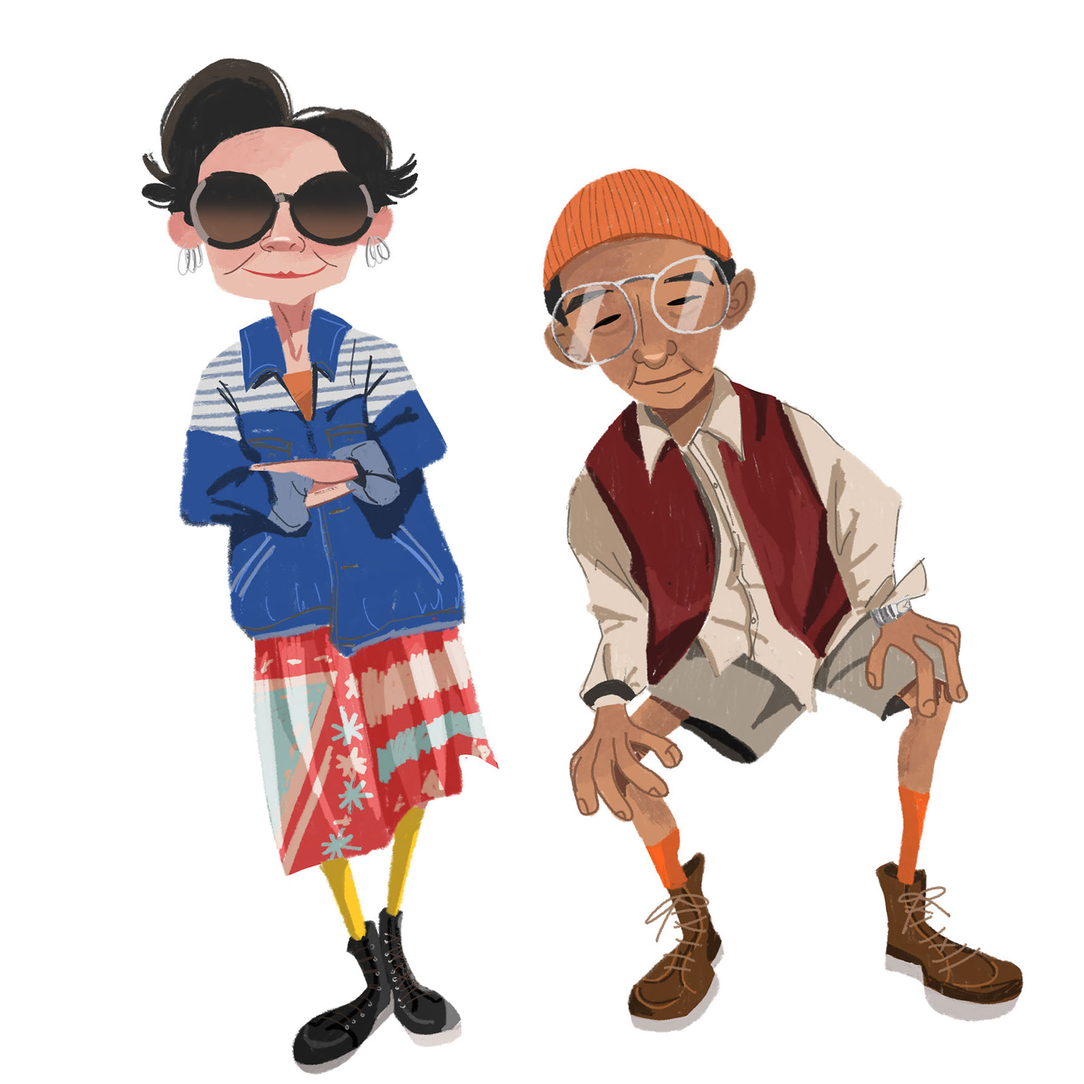
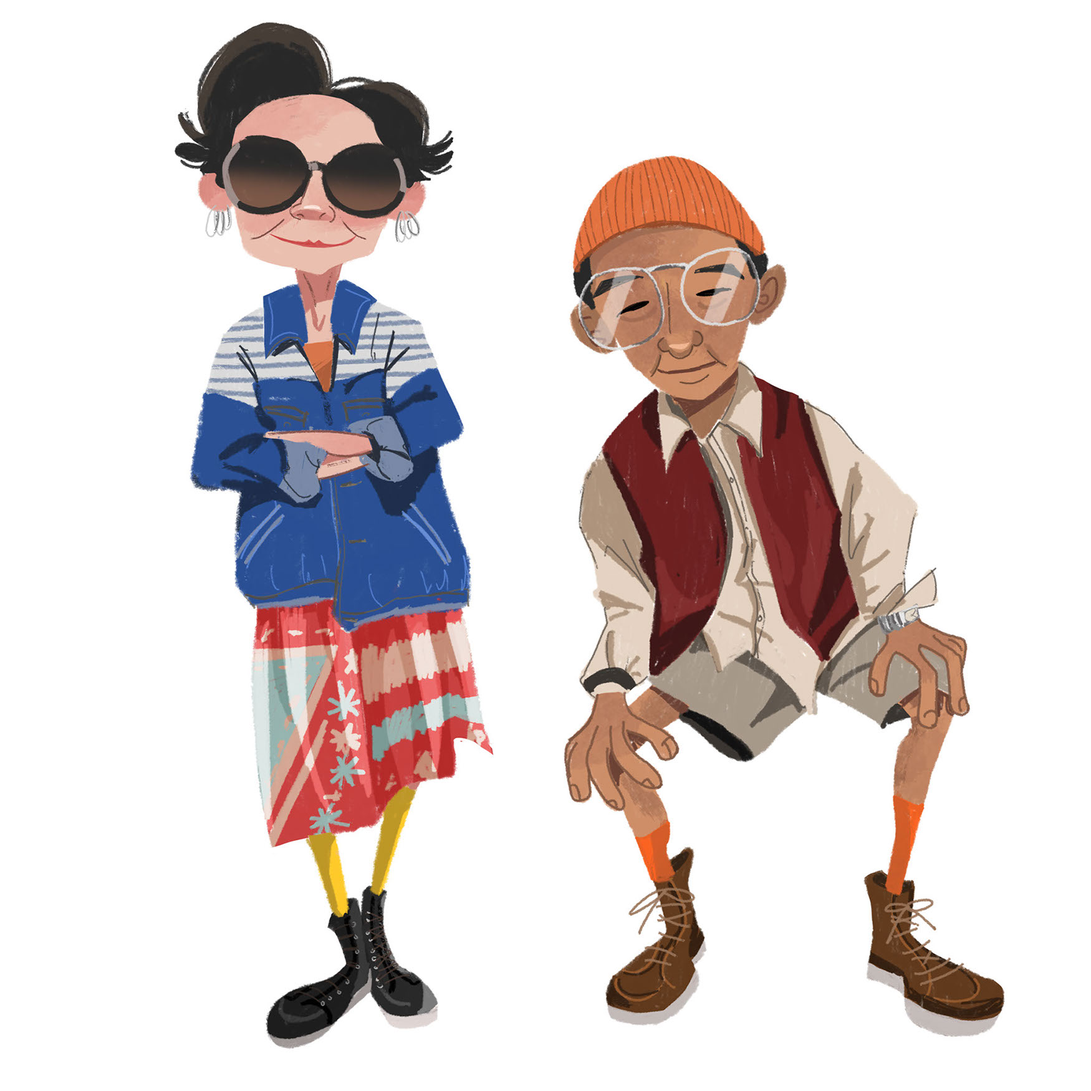
ch

Changed region(s): [[0.1241, 0.0, 0.4655, 0.9931], [0.4966, 0.1241, 0.9621, 0.9621]]

diff --git a/css/index.css b/css/index.css
@@ -1,1 +1,1 @@
-.version.index{color:#00000F;background-color:#1A99DC;}#page{z-index:1;width:736px;min-height:376px;background-image:none;border-width:0px;border-color:#000000;background-color:transparent;margin-left:auto;margin-right:auto;padding:62px 132px;}#u106{z-index:2;width:501px;background-color:transparent;margin-left:118px;position:relative;}#menuu10152{z-index:18;width:668px;height:47px;border-width:0px;border-color:transparent;background-color:transparent;margin-left:34px;position:relative;}#u10167{width:165px;min-height:47px;background-color:transparent;position:relative;margin-right:-10000px;}#u10170{width:165px;background-color:#FFFFFF;padding-bottom:25px;position:relative;}#u10170.MuseMenuActive{border-width:0px;border-color:transparent;background-color:#FFFFFF;width:165px;min-height:0px;margin:0px;}#u10172-4{position:relative;margin-right:-10000px;top:12px;left:0px;}#u10172-4_clip{overflow:hidden;width:165px;height:22px;display:block;vertical-align:top;}#u10174{width:165px;min-height:47px;background-color:transparent;position:relative;margin-right:-10000px;left:167px;}#u10177{width:165px;background-color:#FFFFFF;padding-bottom:25px;position:relative;}#u10177:hover{background-color:#999999;width:165px;min-height:0px;margin:0px;}#u10177:active{background-color:#6B6B6B;width:165px;min-height:0px;margin:0px;}#u10180{height:22px;width:165px;vertical-align:top;position:relative;margin-right:-10000px;top:12px;background:transparent url("../images/u10180.png?crc=385428386") no-repeat 0px 0px;}.hidpi #u10180{background-image:url("../images/u10180_2x.png?crc=4070849319");background-size:165px 22px;}#u10177.MuseMenuActive #u10180{background:transparent url("../images/u10180-a.png?crc=4212819689") no-repeat 0px 0px;}.hidpi #u10177.MuseMenuActive #u10180{background-image:url("../images/u10180-a_2x.png?crc=4128372013");background-size:165px 22px;}#u10153{width:166px;min-height:47px;background-color:transparent;position:relative;margin-right:-10000px;left:334px;}#u10154{width:166px;background-color:#FFFFFF;padding-bottom:25px;position:relative;}#u10154:hover{background-color:#999999;width:166px;min-height:0px;margin:0px;}#u10155{height:22px;width:166px;vertical-align:top;position:relative;margin-right:-10000px;top:12px;background:transparent url("../images/u10155.png?crc=23518194") no-repeat 0px 0px;}.hidpi #u10155{background-image:url("../images/u10155_2x.png?crc=447743781");background-size:166px 22px;}#u10154.MuseMenuActive #u10155{background:transparent url("../images/u10155-a.png?crc=461360314") no-repeat 0px 0px;}.hidpi #u10154.MuseMenuActive #u10155{background-image:url("../images/u10155-a_2x.png?crc=4173523660");background-size:166px 22px;}#u10160{width:166px;min-height:47px;background-color:transparent;position:relative;margin-right:-10000px;left:502px;}#u10161{width:166px;background-color:#FFFFFF;padding-bottom:25px;position:relative;}#u10161:hover{background-color:#999999;width:166px;min-height:0px;margin:0px;}#u10154:active,#u10161:active{background-color:#6B6B6B;width:166px;min-height:0px;margin:0px;}#u10163{height:22px;width:166px;vertical-align:top;position:relative;margin-right:-10000px;top:12px;background:transparent url("../images/u10163.png?crc=4150077830") no-repeat 0px 0px;}.hidpi #u10163{background-image:url("../images/u10163_2x.png?crc=4260400765");background-size:166px 22px;}#u10161.MuseMenuActive #u10163{background:transparent url("../images/u10163-a.png?crc=3836601146") no-repeat 0px 0px;}.hidpi #u10161.MuseMenuActive #u10163{background-image:url("../images/u10163-a_2x.png?crc=3989983210");background-size:166px 22px;}.MenuItem{cursor:pointer;}#u523{z-index:4;width:736px;-webkit-transition-duration:0s;-webkit-transition-delay:0s;transition-duration:0s;transition-delay:0s;background-image:url("../images/blank.gif?crc=4208392903");background-color:transparent;margin-left:1px;margin-top:71px;position:relative;}#u523:hover{-webkit-transition-duration:1s;-webkit-transition-delay:0s;-webkit-transition-timing-function:ease;transition-duration:1s;transition-delay:0s;transition-timing-function:ease;width:736px;min-height:0px;margin:71px 0px 0px 1px;}#u523:active{-webkit-transition-duration:1s;-webkit-transition-delay:0s;-webkit-transition-timing-function:ease;transition-duration:1s;transition-delay:0s;transition-timing-function:ease;width:736px;min-height:0px;margin:71px 0px 0px 1px;}#u530-4{z-index:6;margin-left:1px;margin-top:11px;position:relative;}#u1045{z-index:10;width:736px;background-color:transparent;margin-top:103px;position:relative;}#u10096-4{z-index:12;margin-top:12px;position:relative;}#u10099{z-index:16;width:736px;background-color:transparent;margin-top:89px;position:relative;}#u10244-4{z-index:40;margin-top:12px;position:relative;}#u530-4_img,#u10096-4_img,#u10244-4_img{display:block;vertical-align:top;}.css_verticalspacer .verticalspacer{height:calc(100vh - 2066px);}#muse_css_mq,.html{background-color:#FFFFFF;}body{position:relative;min-width:1000px;}
+.version.index{color:#0000FC;background-color:#28ED8B;}#page{z-index:1;width:1000px;min-height:500px;background-image:none;border-width:0px;border-color:#000000;background-color:transparent;margin-left:auto;margin-right:auto;}#u11457{z-index:44;width:658px;background-color:transparent;margin-bottom:-27px;position:relative;margin-right:-10000px;margin-top:1328px;left:-1207px;}#pu106{z-index:2;width:0.01px;margin-right:-10000px;margin-top:62px;margin-left:132px;}#u106{z-index:2;width:501px;background-color:transparent;margin-left:118px;position:relative;}#menuu10152{z-index:18;width:668px;height:47px;border-width:0px;border-color:transparent;background-color:transparent;margin-left:34px;position:relative;}#u10167{width:165px;min-height:47px;background-color:transparent;position:relative;margin-right:-10000px;}#u10170{width:165px;background-color:#FFFFFF;padding-bottom:25px;position:relative;}#u10170.MuseMenuActive{border-width:0px;border-color:transparent;background-color:#FFFFFF;width:165px;min-height:0px;margin:0px;}#u10172-4{position:relative;margin-right:-10000px;top:12px;left:0px;}#u10172-4_clip{overflow:hidden;width:165px;height:22px;display:block;vertical-align:top;}#u10174{width:165px;min-height:47px;background-color:transparent;position:relative;margin-right:-10000px;left:167px;}#u10177{width:165px;background-color:#FFFFFF;padding-bottom:25px;position:relative;}#u10177:hover{background-color:#999999;width:165px;min-height:0px;margin:0px;}#u10177:active{background-color:#6B6B6B;width:165px;min-height:0px;margin:0px;}#u10180{height:22px;width:165px;vertical-align:top;position:relative;margin-right:-10000px;top:12px;background:transparent url("../images/u10180.png?crc=385428386") no-repeat 0px 0px;}.hidpi #u10180{background-image:url("../images/u10180_2x.png?crc=4070849319");background-size:165px 22px;}#u10177.MuseMenuActive #u10180{background:transparent url("../images/u10180-a.png?crc=4212819689") no-repeat 0px 0px;}.hidpi #u10177.MuseMenuActive #u10180{background-image:url("../images/u10180-a_2x.png?crc=4128372013");background-size:165px 22px;}#u10153{width:166px;min-height:47px;background-color:transparent;position:relative;margin-right:-10000px;left:334px;}#u10154{width:166px;background-color:#FFFFFF;padding-bottom:25px;position:relative;}#u10154:hover{background-color:#999999;width:166px;min-height:0px;margin:0px;}#u10155{height:22px;width:166px;vertical-align:top;position:relative;margin-right:-10000px;top:12px;background:transparent url("../images/u10155.png?crc=23518194") no-repeat 0px 0px;}.hidpi #u10155{background-image:url("../images/u10155_2x.png?crc=447743781");background-size:166px 22px;}#u10154.MuseMenuActive #u10155{background:transparent url("../images/u10155-a.png?crc=461360314") no-repeat 0px 0px;}.hidpi #u10154.MuseMenuActive #u10155{background-image:url("../images/u10155-a_2x.png?crc=4173523660");background-size:166px 22px;}#u10160{width:166px;min-height:47px;background-color:transparent;position:relative;margin-right:-10000px;left:502px;}#u10161{width:166px;background-color:#FFFFFF;padding-bottom:25px;position:relative;}#u10161:hover{background-color:#999999;width:166px;min-height:0px;margin:0px;}#u10154:active,#u10161:active{background-color:#6B6B6B;width:166px;min-height:0px;margin:0px;}#u10163{height:22px;width:166px;vertical-align:top;position:relative;margin-right:-10000px;top:12px;background:transparent url("../images/u10163.png?crc=4150077830") no-repeat 0px 0px;}.hidpi #u10163{background-image:url("../images/u10163_2x.png?crc=4260400765");background-size:166px 22px;}#u10161.MuseMenuActive #u10163{background:transparent url("../images/u10163-a.png?crc=3836601146") no-repeat 0px 0px;}.hidpi #u10161.MuseMenuActive #u10163{background-image:url("../images/u10163-a_2x.png?crc=3989983210");background-size:166px 22px;}.MenuItem{cursor:pointer;}#u523{z-index:4;width:736px;-webkit-transition-duration:0s;-webkit-transition-delay:0s;transition-duration:0s;transition-delay:0s;background-image:url("../images/blank.gif?crc=4208392903");background-color:transparent;margin-left:1px;margin-top:71px;position:relative;}#u523:hover{-webkit-transition-duration:1s;-webkit-transition-delay:0s;-webkit-transition-timing-function:ease;transition-duration:1s;transition-delay:0s;transition-timing-function:ease;width:736px;min-height:0px;margin:71px 0px 0px 1px;}#u523:active{-webkit-transition-duration:1s;-webkit-transition-delay:0s;-webkit-transition-timing-function:ease;transition-duration:1s;transition-delay:0s;transition-timing-function:ease;width:736px;min-height:0px;margin:71px 0px 0px 1px;}#u530-4{z-index:6;margin-left:1px;margin-top:11px;position:relative;}#u1045{z-index:10;width:736px;background-color:transparent;margin-top:103px;position:relative;}#u10096-4{z-index:14;margin-top:12px;position:relative;}#u11478{z-index:12;width:736px;background-color:transparent;margin-top:122px;position:relative;}#u10244-4{z-index:40;margin-top:14px;position:relative;}#u530-4_img,#u10096-4_img,#u10244-4_img{display:block;vertical-align:top;}.css_verticalspacer .verticalspacer{height:calc(100vh - 2084px);}#muse_css_mq,.html{background-color:#FFFFFF;}body{position:relative;min-width:1000px;}

diff --git a/index.html b/index.html
@@ -16,7 +16,7 @@ if(typeof Muse == "undefined") window.Muse = {}; window.Muse.assets = {"required
   <title>HOME</title>
   <!-- CSS -->
   <link rel="stylesheet" type="text/css" href="css/site_global.css?crc=444006867"/>
-  <link rel="stylesheet" type="text/css" href="css/index.css?crc=253401564" id="pagesheet"/>
+  <link rel="stylesheet" type="text/css" href="css/index.css?crc=4230540683" id="pagesheet"/>
   <!-- JS includes -->
   <!--[if lt IE 9]>
   <script src="scripts/html5shiv.js?crc=4241844378" type="text/javascript"></script>
@@ -24,31 +24,36 @@ if(typeof Muse == "undefined") window.Muse = {}; window.Muse.assets = {"required
    </head>
  <body>
 
-  <div class="clearfix" id="page"><!-- column -->
-   <div class="clip_frame colelem" id="u106"><!-- image -->
-    <img class="block" id="u106_img" src="images/lily%20chen.png?crc=347766618" alt="" width="501" height="110"/>
+  <div class="clearfix" id="page"><!-- group -->
+   <div class="clip_frame grpelem" id="u11457"><!-- image -->
+    <img class="block" id="u11457_img" src="images/%e8%90%ac%e7%a7%80%e6%b4%97%e8%a1%a3%e5%ba%97659x697.jpg?crc=17278368" data-hidpi-src="images/%e8%90%ac%e7%a7%80%e6%b4%97%e8%a1%a3%e5%ba%97659x697_2x.jpg?crc=59878936" alt="" width="658" height="696"/>
    </div>
-   <nav class="MenuBar clearfix colelem" id="menuu10152"><!-- horizontal box -->
-    <div class="MenuItemContainer clearfix grpelem" id="u10167"><!-- vertical box -->
-     <a class="nonblock nontext MenuItem MenuItemWithSubMenu MuseMenuActive clearfix colelem" id="u10170" href="index.html"><!-- horizontal box --><div class="MenuItemLabel NoWrap grpelem" id="u10172-4"><!-- rasterized frame --><div id="u10172-4_clip"><img alt="HOME" width="165" height="22" src="images/u10172-4-a.png?crc=510347301" data-hidpi-src="images/u10172-4-a_2x.png?crc=405035858"/></div></div></a>
+   <div class="clearfix grpelem" id="pu106"><!-- column -->
+    <div class="clip_frame colelem" id="u106"><!-- image -->
+     <img class="block" id="u106_img" src="images/lily%20chen.png?crc=347766618" alt="" width="501" height="110"/>
     </div>
-    <div class="MenuItemContainer clearfix grpelem" id="u10174"><!-- vertical box -->
-     <a class="nonblock nontext MenuItem MenuItemWithSubMenu clearfix colelem" id="u10177" href="illustration.html"><!-- horizontal box --><img class="MenuItemLabel NoWrap grpelem" id="u10180" alt="ILLUSTRATION" src="images/blank.gif?crc=4208392903"/><!-- state-based BG images --></a>
-    </div>
-    <div class="MenuItemContainer clearfix grpelem" id="u10153"><!-- vertical box -->
-     <a class="nonblock nontext MenuItem MenuItemWithSubMenu clearfix colelem" id="u10154" href="animation.html"><!-- horizontal box --><img class="MenuItemLabel NoWrap grpelem" id="u10155" alt="ANIMATION" src="images/blank.gif?crc=4208392903"/><!-- state-based BG images --></a>
-    </div>
-    <div class="MenuItemContainer clearfix grpelem" id="u10160"><!-- vertical box -->
-     <a class="nonblock nontext MenuItem MenuItemWithSubMenu clearfix colelem" id="u10161" href="character.html"><!-- horizontal box --><img class="MenuItemLabel NoWrap grpelem" id="u10163" alt="CHARACTER" src="images/blank.gif?crc=4208392903"/><!-- state-based BG images --></a>
-    </div>
-   </nav>
-   <a class="nonblock nontext transition clip_frame colelem" id="u523" href="illustration.html"><!-- image --><img class="block" id="u523_img" src="images/liongirl736x442.jpg?crc=4205474386" data-hidpi-src="images/liongirl736x442_2x.jpg?crc=140351869" alt="" width="736" height="441"/></a>
-   <a class="nonblock nontext colelem" id="u530-4" href="illustration.html"><!-- rasterized frame --><img id="u530-4_img" alt="ILLUSTRATION" width="183" height="38" src="images/u530-4.png?crc=169550606" data-hidpi-src="images/u530-4_2x.png?crc=67288686"/></a>
-   <a class="nonblock nontext clip_frame colelem" id="u1045" href="animation.html"><!-- image --><img class="block" id="u1045_img" src="images/0089-crop-u1045.jpg?crc=3917088122" alt="" width="737" height="415"/></a>
-   <a class="nonblock nontext colelem" id="u10096-4" href="animation.html"><!-- rasterized frame --><img id="u10096-4_img" alt="ANIMATION" width="183" height="38" src="images/u10096-4.png?crc=4200656961" data-hidpi-src="images/u10096-4_2x.png?crc=137967775"/></a>
-   <a class="nonblock nontext clip_frame colelem" id="u10099" href="character.html"><!-- image --><img class="block" id="u10099_img" src="images/%e6%83%b3%e8%a6%8b%e4%bd%a0737x521.jpg?crc=3994650527" data-hidpi-src="images/%e6%83%b3%e8%a6%8b%e4%bd%a0737x521_2x.jpg?crc=4103812167" alt="" width="736" height="520"/></a>
-   <a class="nonblock nontext colelem" id="u10244-4" href="character.html"><!-- rasterized frame --><img id="u10244-4_img" alt="CHARACTER" width="183" height="38" src="images/u10244-4.png?crc=4096942598" data-hidpi-src="images/u10244-4_2x.png?crc=4266299866"/></a>
-   <div class="verticalspacer" data-offset-top="2006" data-content-above-spacer="2005" data-content-below-spacer="61"></div>
+    <nav class="MenuBar clearfix colelem" id="menuu10152"><!-- horizontal box -->
+     <div class="MenuItemContainer clearfix grpelem" id="u10167"><!-- vertical box -->
+      <a class="nonblock nontext MenuItem MenuItemWithSubMenu MuseMenuActive clearfix colelem" id="u10170" href="index.html"><!-- horizontal box --><div class="MenuItemLabel NoWrap grpelem" id="u10172-4"><!-- rasterized frame --><div id="u10172-4_clip"><img alt="HOME" width="165" height="22" src="images/u10172-4-a.png?crc=510347301" data-hidpi-src="images/u10172-4-a_2x.png?crc=405035858"/></div></div></a>
+     </div>
+     <div class="MenuItemContainer clearfix grpelem" id="u10174"><!-- vertical box -->
+      <a class="nonblock nontext MenuItem MenuItemWithSubMenu clearfix colelem" id="u10177" href="illustration.html"><!-- horizontal box --><img class="MenuItemLabel NoWrap grpelem" id="u10180" alt="ILLUSTRATION" src="images/blank.gif?crc=4208392903"/><!-- state-based BG images --></a>
+     </div>
+     <div class="MenuItemContainer clearfix grpelem" id="u10153"><!-- vertical box -->
+      <a class="nonblock nontext MenuItem MenuItemWithSubMenu clearfix colelem" id="u10154" href="animation.html"><!-- horizontal box --><img class="MenuItemLabel NoWrap grpelem" id="u10155" alt="ANIMATION" src="images/blank.gif?crc=4208392903"/><!-- state-based BG images --></a>
+     </div>
+     <div class="MenuItemContainer clearfix grpelem" id="u10160"><!-- vertical box -->
+      <a class="nonblock nontext MenuItem MenuItemWithSubMenu clearfix colelem" id="u10161" href="character.html"><!-- horizontal box --><img class="MenuItemLabel NoWrap grpelem" id="u10163" alt="CHARACTER" src="images/blank.gif?crc=4208392903"/><!-- state-based BG images --></a>
+     </div>
+    </nav>
+    <a class="nonblock nontext transition clip_frame colelem" id="u523" href="illustration.html"><!-- image --><img class="block" id="u523_img" src="images/liongirl736x442.jpg?crc=4205474386" data-hidpi-src="images/liongirl736x442_2x.jpg?crc=140351869" alt="" width="736" height="441"/></a>
+    <a class="nonblock nontext colelem" id="u530-4" href="illustration.html"><!-- rasterized frame --><img id="u530-4_img" alt="ILLUSTRATION" width="183" height="38" src="images/u530-4.png?crc=169550606" data-hidpi-src="images/u530-4_2x.png?crc=67288686"/></a>
+    <a class="nonblock nontext clip_frame colelem" id="u1045" href="animation.html"><!-- image --><img class="block" id="u1045_img" src="images/0089-crop-u1045.jpg?crc=3917088122" alt="" width="737" height="415"/></a>
+    <a class="nonblock nontext colelem" id="u10096-4" href="animation.html"><!-- rasterized frame --><img id="u10096-4_img" alt="ANIMATION" width="183" height="38" src="images/u10096-4.png?crc=4200656961" data-hidpi-src="images/u10096-4_2x.png?crc=137967775"/></a>
+    <a class="nonblock nontext clip_frame colelem" id="u11478" href="character.html"><!-- image --><img class="block" id="u11478_img" src="images/thehotchick2-crop-u11478.jpg?crc=365023093" data-hidpi-src="images/thehotchick2-crop-u11478_2x.jpg?crc=490192012" alt="" width="737" height="415"/></a>
+    <a class="nonblock nontext colelem" id="u10244-4" href="character.html"><!-- rasterized frame --><img id="u10244-4_img" alt="CHARACTER" width="183" height="38" src="images/u10244-4.png?crc=4096942598" data-hidpi-src="images/u10244-4_2x.png?crc=4266299866"/></a>
+   </div>
+   <div class="verticalspacer" data-offset-top="1935" data-content-above-spacer="2023" data-content-below-spacer="61"></div>
   </div>
   <div class="preload_images">
    <img class="preload" src="images/u10180-a.png?crc=4212819689" alt=""/>

diff --git a/css/character.css b/css/character.css
@@ -1,1 +1,1 @@
-.version.character{color:#0000EA;background-color:#600C66;}#page{z-index:1;width:875px;min-height:376px;background-image:none;border-width:0px;border-color:#000000;background-color:transparent;margin-left:auto;margin-right:auto;padding:62px 53px 62px 72px;}#u9972{z-index:2;width:376px;background-color:transparent;margin-left:244px;position:relative;}#menuu9974{z-index:4;width:550px;height:36px;border-width:0px;border-color:transparent;background-color:transparent;margin-left:153px;position:relative;}#u9989{width:136px;min-height:36px;background-color:transparent;position:relative;margin-right:-10000px;}#u9992{width:136px;background-color:#FFFFFF;padding-bottom:19px;position:relative;}#u9992:hover{background-color:#999999;width:136px;min-height:0px;margin:0px;}#u9994{height:17px;width:136px;vertical-align:top;position:relative;margin-right:-10000px;top:9px;background:transparent url("../images/u9994.png?crc=431491096") no-repeat 0px 0px;}.hidpi #u9994{background-image:url("../images/u9994_2x.png?crc=4160984124");background-size:136px 17px;}#u9992.MuseMenuActive #u9994{background:transparent url("../images/u9994-a.png?crc=40027291") no-repeat 0px 0px;}.hidpi #u9992.MuseMenuActive #u9994{background-image:url("../images/u9994-a_2x.png?crc=262191306");background-size:136px 17px;}#u9996{width:136px;min-height:36px;background-color:transparent;position:relative;margin-right:-10000px;left:138px;}#u9999{width:136px;background-color:#FFFFFF;padding-bottom:19px;position:relative;}#u9999:hover{background-color:#999999;width:136px;min-height:0px;margin:0px;}#u10002{height:17px;width:136px;vertical-align:top;position:relative;margin-right:-10000px;top:9px;background:transparent url("../images/u10002.png?crc=294012242") no-repeat 0px 0px;}.hidpi #u10002{background-image:url("../images/u10002_2x.png?crc=476662685");background-size:136px 17px;}#u9999.MuseMenuActive #u10002{background:transparent url("../images/u10002-a.png?crc=3936189095") no-repeat 0px 0px;}.hidpi #u9999.MuseMenuActive #u10002{background-image:url("../images/u10002-a_2x.png?crc=302691421");background-size:136px 17px;}#u9975{width:136px;min-height:36px;background-color:transparent;position:relative;margin-right:-10000px;left:276px;}#u9976{width:136px;background-color:#FFFFFF;padding-bottom:19px;position:relative;}#u9976:hover{background-color:#999999;width:136px;min-height:0px;margin:0px;}#u9992:active,#u9999:active,#u9976:active{background-color:#6B6B6B;width:136px;min-height:0px;margin:0px;}#u9977{height:17px;width:136px;vertical-align:top;position:relative;margin-right:-10000px;top:9px;background:transparent url("../images/u9977.png?crc=328423500") no-repeat 0px 0px;}.hidpi #u9977{background-image:url("../images/u9977_2x.png?crc=185477300");background-size:136px 17px;}#u9976.MuseMenuActive #u9977{background:transparent url("../images/u9977-a.png?crc=3793669244") no-repeat 0px 0px;}.hidpi #u9976.MuseMenuActive #u9977{background-image:url("../images/u9977-a_2x.png?crc=3982371615");background-size:136px 17px;}#u9982{width:136px;min-height:36px;background-color:transparent;position:relative;margin-right:-10000px;left:414px;}#u9983{width:136px;background-color:#FFFFFF;padding-bottom:19px;position:relative;}#u9983.MuseMenuActive{border-width:0px;border-color:transparent;background-color:#FFFFFF;width:136px;min-height:0px;margin:0px;}#u9985-4{position:relative;margin-right:-10000px;top:9px;left:0px;}#u9985-4_clip{overflow:hidden;width:136px;height:17px;display:block;vertical-align:top;}.MenuItem{cursor:pointer;}#u11318{z-index:32;width:874px;background-color:transparent;margin-left:1px;margin-top:77px;position:relative;}#u11430{z-index:34;width:870px;background-color:transparent;margin-left:1px;margin-top:27px;position:relative;}#u10066{z-index:26;width:860px;background-color:transparent;margin-left:7px;margin-top:27px;position:relative;}#u10076{z-index:28;width:861px;background-color:transparent;margin-left:6px;margin-top:27px;position:relative;}#u10086{z-index:30;width:864px;background-color:transparent;margin-top:28px;position:relative;}.css_verticalspacer .verticalspacer{height:calc(100vh - 4584px);}#muse_css_mq,.html{background-color:#FFFFFF;}body{position:relative;min-width:1000px;}
+.version.character{color:#000001;background-color:#169A7B;}#page{z-index:1;width:876px;min-height:376px;background-image:none;border-width:0px;border-color:#000000;background-color:transparent;margin-left:auto;margin-right:auto;padding:62px 52px 62px 72px;}#u9972{z-index:2;width:376px;background-color:transparent;margin-left:244px;position:relative;}#menuu9974{z-index:4;width:550px;height:36px;border-width:0px;border-color:transparent;background-color:transparent;margin-left:153px;position:relative;}#u9989{width:136px;min-height:36px;background-color:transparent;position:relative;margin-right:-10000px;}#u9992{width:136px;background-color:#FFFFFF;padding-bottom:19px;position:relative;}#u9992:hover{background-color:#999999;width:136px;min-height:0px;margin:0px;}#u9994{height:17px;width:136px;vertical-align:top;position:relative;margin-right:-10000px;top:9px;background:transparent url("../images/u9994.png?crc=431491096") no-repeat 0px 0px;}.hidpi #u9994{background-image:url("../images/u9994_2x.png?crc=4160984124");background-size:136px 17px;}#u9992.MuseMenuActive #u9994{background:transparent url("../images/u9994-a.png?crc=40027291") no-repeat 0px 0px;}.hidpi #u9992.MuseMenuActive #u9994{background-image:url("../images/u9994-a_2x.png?crc=262191306");background-size:136px 17px;}#u9996{width:136px;min-height:36px;background-color:transparent;position:relative;margin-right:-10000px;left:138px;}#u9999{width:136px;background-color:#FFFFFF;padding-bottom:19px;position:relative;}#u9999:hover{background-color:#999999;width:136px;min-height:0px;margin:0px;}#u10002{height:17px;width:136px;vertical-align:top;position:relative;margin-right:-10000px;top:9px;background:transparent url("../images/u10002.png?crc=294012242") no-repeat 0px 0px;}.hidpi #u10002{background-image:url("../images/u10002_2x.png?crc=476662685");background-size:136px 17px;}#u9999.MuseMenuActive #u10002{background:transparent url("../images/u10002-a.png?crc=3936189095") no-repeat 0px 0px;}.hidpi #u9999.MuseMenuActive #u10002{background-image:url("../images/u10002-a_2x.png?crc=302691421");background-size:136px 17px;}#u9975{width:136px;min-height:36px;background-color:transparent;position:relative;margin-right:-10000px;left:276px;}#u9976{width:136px;background-color:#FFFFFF;padding-bottom:19px;position:relative;}#u9976:hover{background-color:#999999;width:136px;min-height:0px;margin:0px;}#u9992:active,#u9999:active,#u9976:active{background-color:#6B6B6B;width:136px;min-height:0px;margin:0px;}#u9977{height:17px;width:136px;vertical-align:top;position:relative;margin-right:-10000px;top:9px;background:transparent url("../images/u9977.png?crc=328423500") no-repeat 0px 0px;}.hidpi #u9977{background-image:url("../images/u9977_2x.png?crc=185477300");background-size:136px 17px;}#u9976.MuseMenuActive #u9977{background:transparent url("../images/u9977-a.png?crc=3793669244") no-repeat 0px 0px;}.hidpi #u9976.MuseMenuActive #u9977{background-image:url("../images/u9977-a_2x.png?crc=3982371615");background-size:136px 17px;}#u9982{width:136px;min-height:36px;background-color:transparent;position:relative;margin-right:-10000px;left:414px;}#u9983{width:136px;background-color:#FFFFFF;padding-bottom:19px;position:relative;}#u9983.MuseMenuActive{border-width:0px;border-color:transparent;background-color:#FFFFFF;width:136px;min-height:0px;margin:0px;}#u9985-4{position:relative;margin-right:-10000px;top:9px;left:0px;}#u9985-4_clip{overflow:hidden;width:136px;height:17px;display:block;vertical-align:top;}.MenuItem{cursor:pointer;}#u11318{z-index:32;width:874px;background-color:transparent;margin-left:1px;margin-top:77px;position:relative;}#u11440{z-index:34;width:875px;background-color:transparent;margin-left:1px;margin-top:27px;position:relative;}#u10066{z-index:26;width:860px;background-color:transparent;margin-left:7px;margin-top:27px;position:relative;}#u10076{z-index:28;width:861px;background-color:transparent;margin-left:6px;margin-top:27px;position:relative;}#u10086{z-index:30;width:864px;background-color:transparent;margin-top:28px;position:relative;}.css_verticalspacer .verticalspacer{height:calc(100vh - 4584px);}#muse_css_mq,.html{background-color:#FFFFFF;}body{position:relative;min-width:1000px;}

diff --git a/character.html b/character.html
@@ -16,7 +16,7 @@ if(typeof Muse == "undefined") window.Muse = {}; window.Muse.assets = {"required
   <title>CHARACTER</title>
   <!-- CSS -->
   <link rel="stylesheet" type="text/css" href="css/site_global.css?crc=444006867"/>
-  <link rel="stylesheet" type="text/css" href="css/character.css?crc=3932163174" id="pagesheet"/>
+  <link rel="stylesheet" type="text/css" href="css/character.css?crc=18258555" id="pagesheet"/>
   <!-- JS includes -->
   <!--[if lt IE 9]>
   <script src="scripts/html5shiv.js?crc=4241844378" type="text/javascript"></script>
@@ -43,8 +43,8 @@ if(typeof Muse == "undefined") window.Muse = {}; window.Muse.assets = {"required
    <div class="clip_frame colelem" id="u11318"><!-- image -->
     <img class="block" id="u11318_img" src="images/thehotchick2.jpg?crc=3882418841" data-hidpi-src="images/thehotchick2_2x.jpg?crc=8635054" alt="" width="874" height="874"/>
    </div>
-   <div class="clip_frame colelem" id="u11430"><!-- image -->
-    <img class="block" id="u11430_img" src="images/%e8%90%ac%e7%a7%80%e6%b4%97%e8%a1%a3%e5%ba%97.jpg?crc=202578511" data-hidpi-src="images/%e8%90%ac%e7%a7%80%e6%b4%97%e8%a1%a3%e5%ba%97_2x.jpg?crc=4190431197" alt="" width="870" height="870"/>
+   <div class="clip_frame colelem" id="u11440"><!-- image -->
+    <img class="block" id="u11440_img" src="images/%e8%90%ac%e7%a7%80%e6%b4%97%e8%a1%a3%e5%ba%97.jpg?crc=4058071280" data-hidpi-src="images/%e8%90%ac%e7%a7%80%e6%b4%97%e8%a1%a3%e5%ba%97_2x.jpg?crc=210048016" alt="" width="875" height="870"/>
    </div>
    <div class="clip_frame colelem" id="u10066"><!-- image -->
     <img class="block" id="u10066_img" src="images/%e6%83%b3%e8%a6%8b%e4%bd%a0.jpg?crc=4057936478" data-hidpi-src="images/%e6%83%b3%e8%a6%8b%e4%bd%a0_2x.jpg?crc=3986216892" alt="" width="860" height="608"/>
